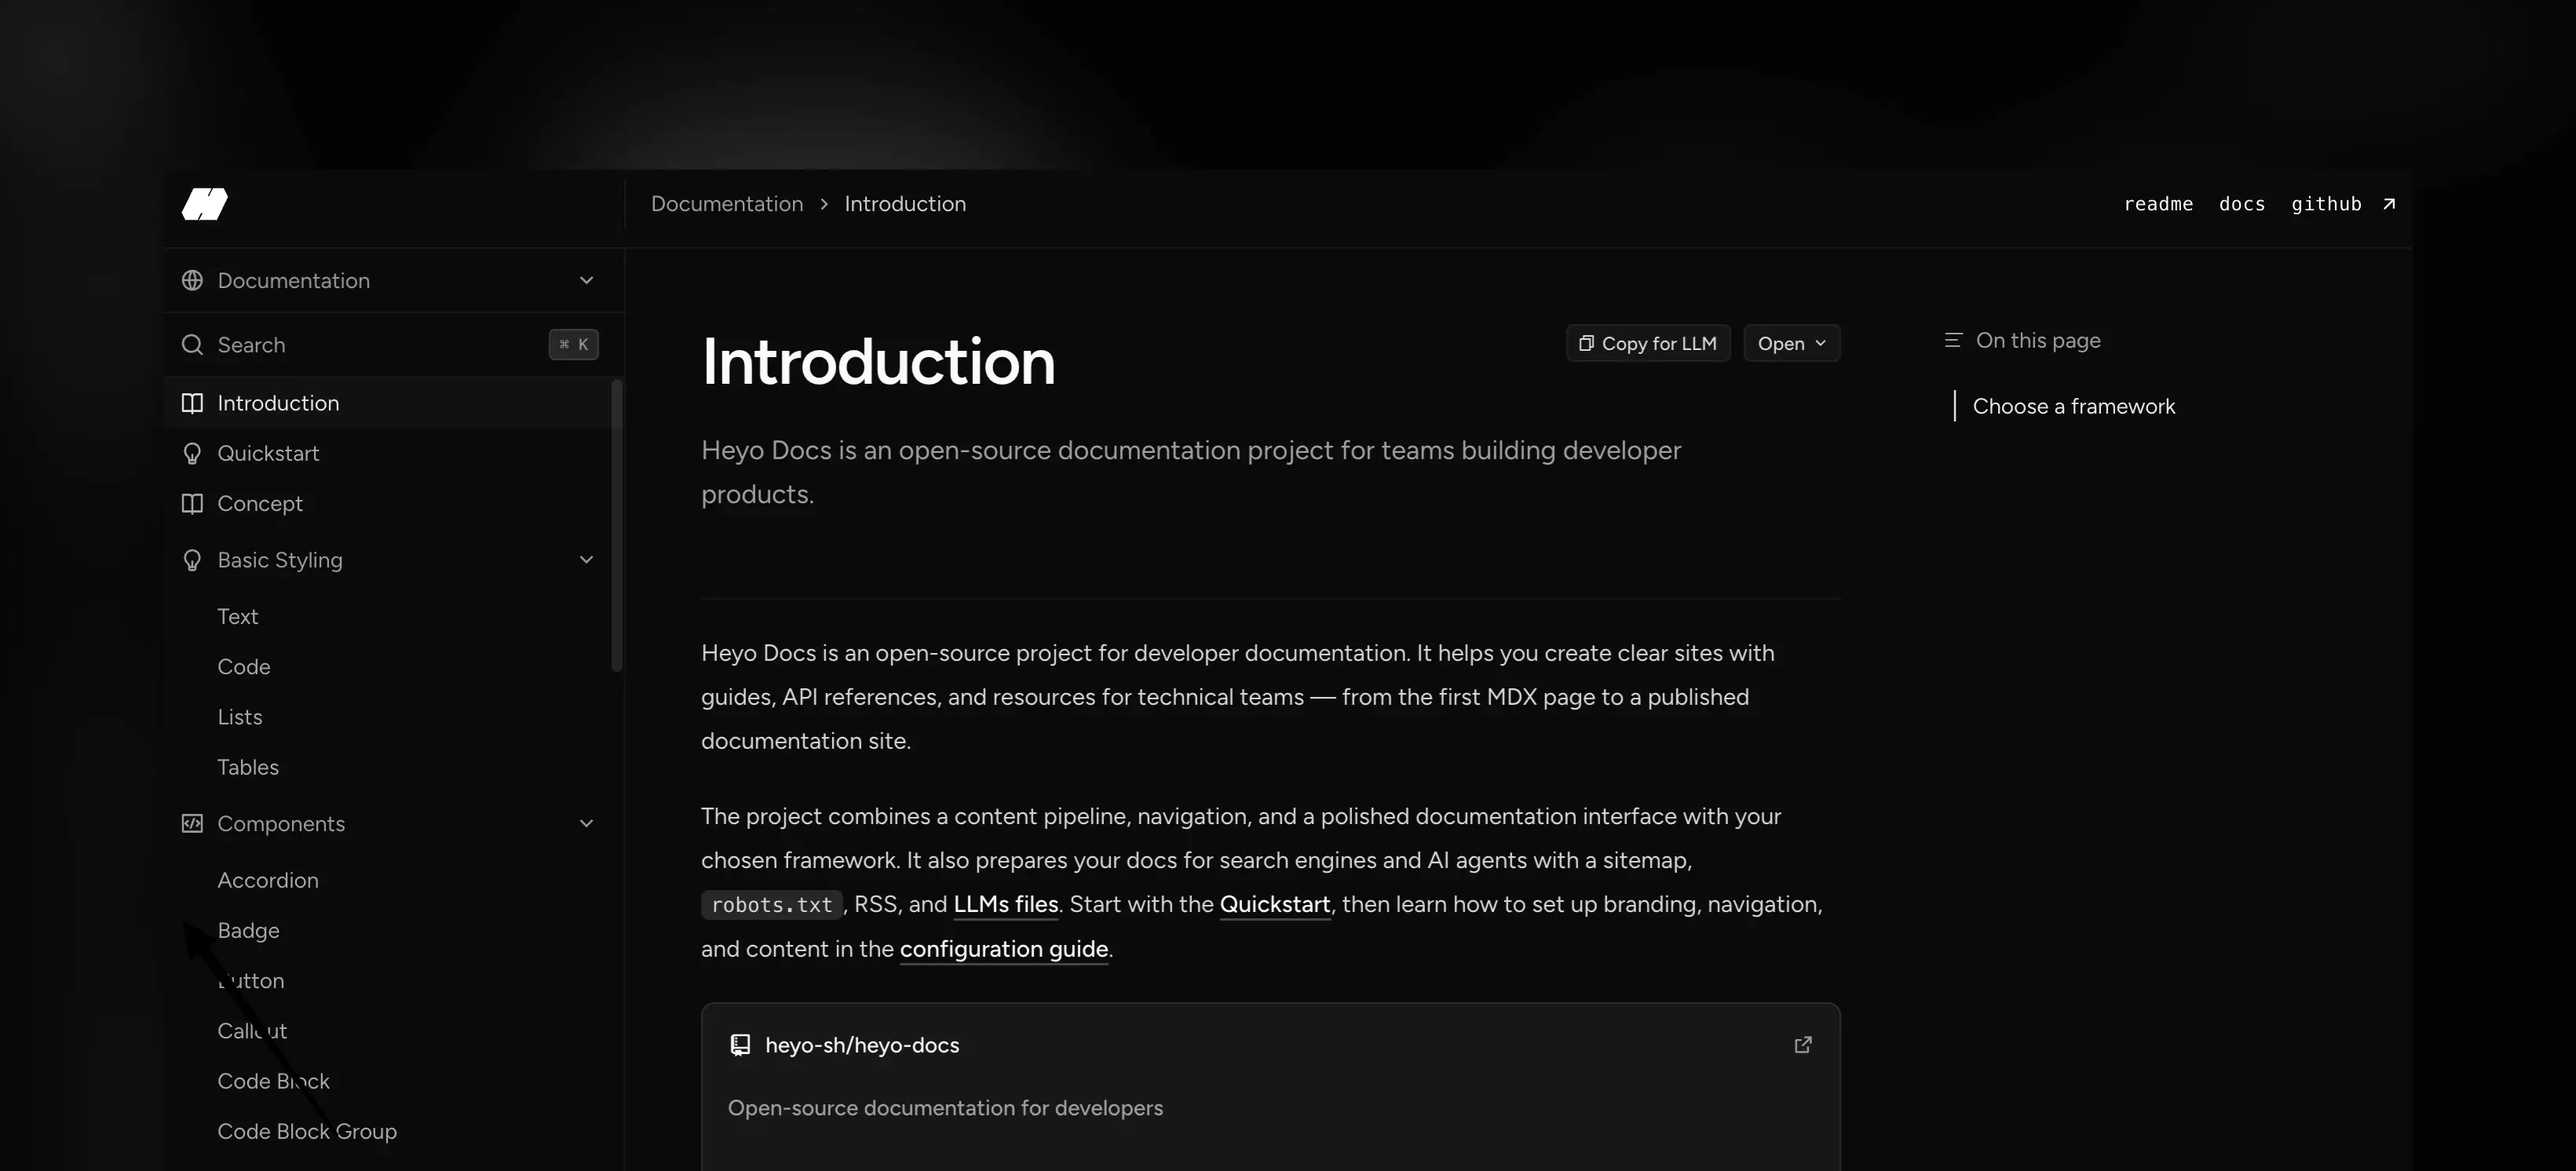
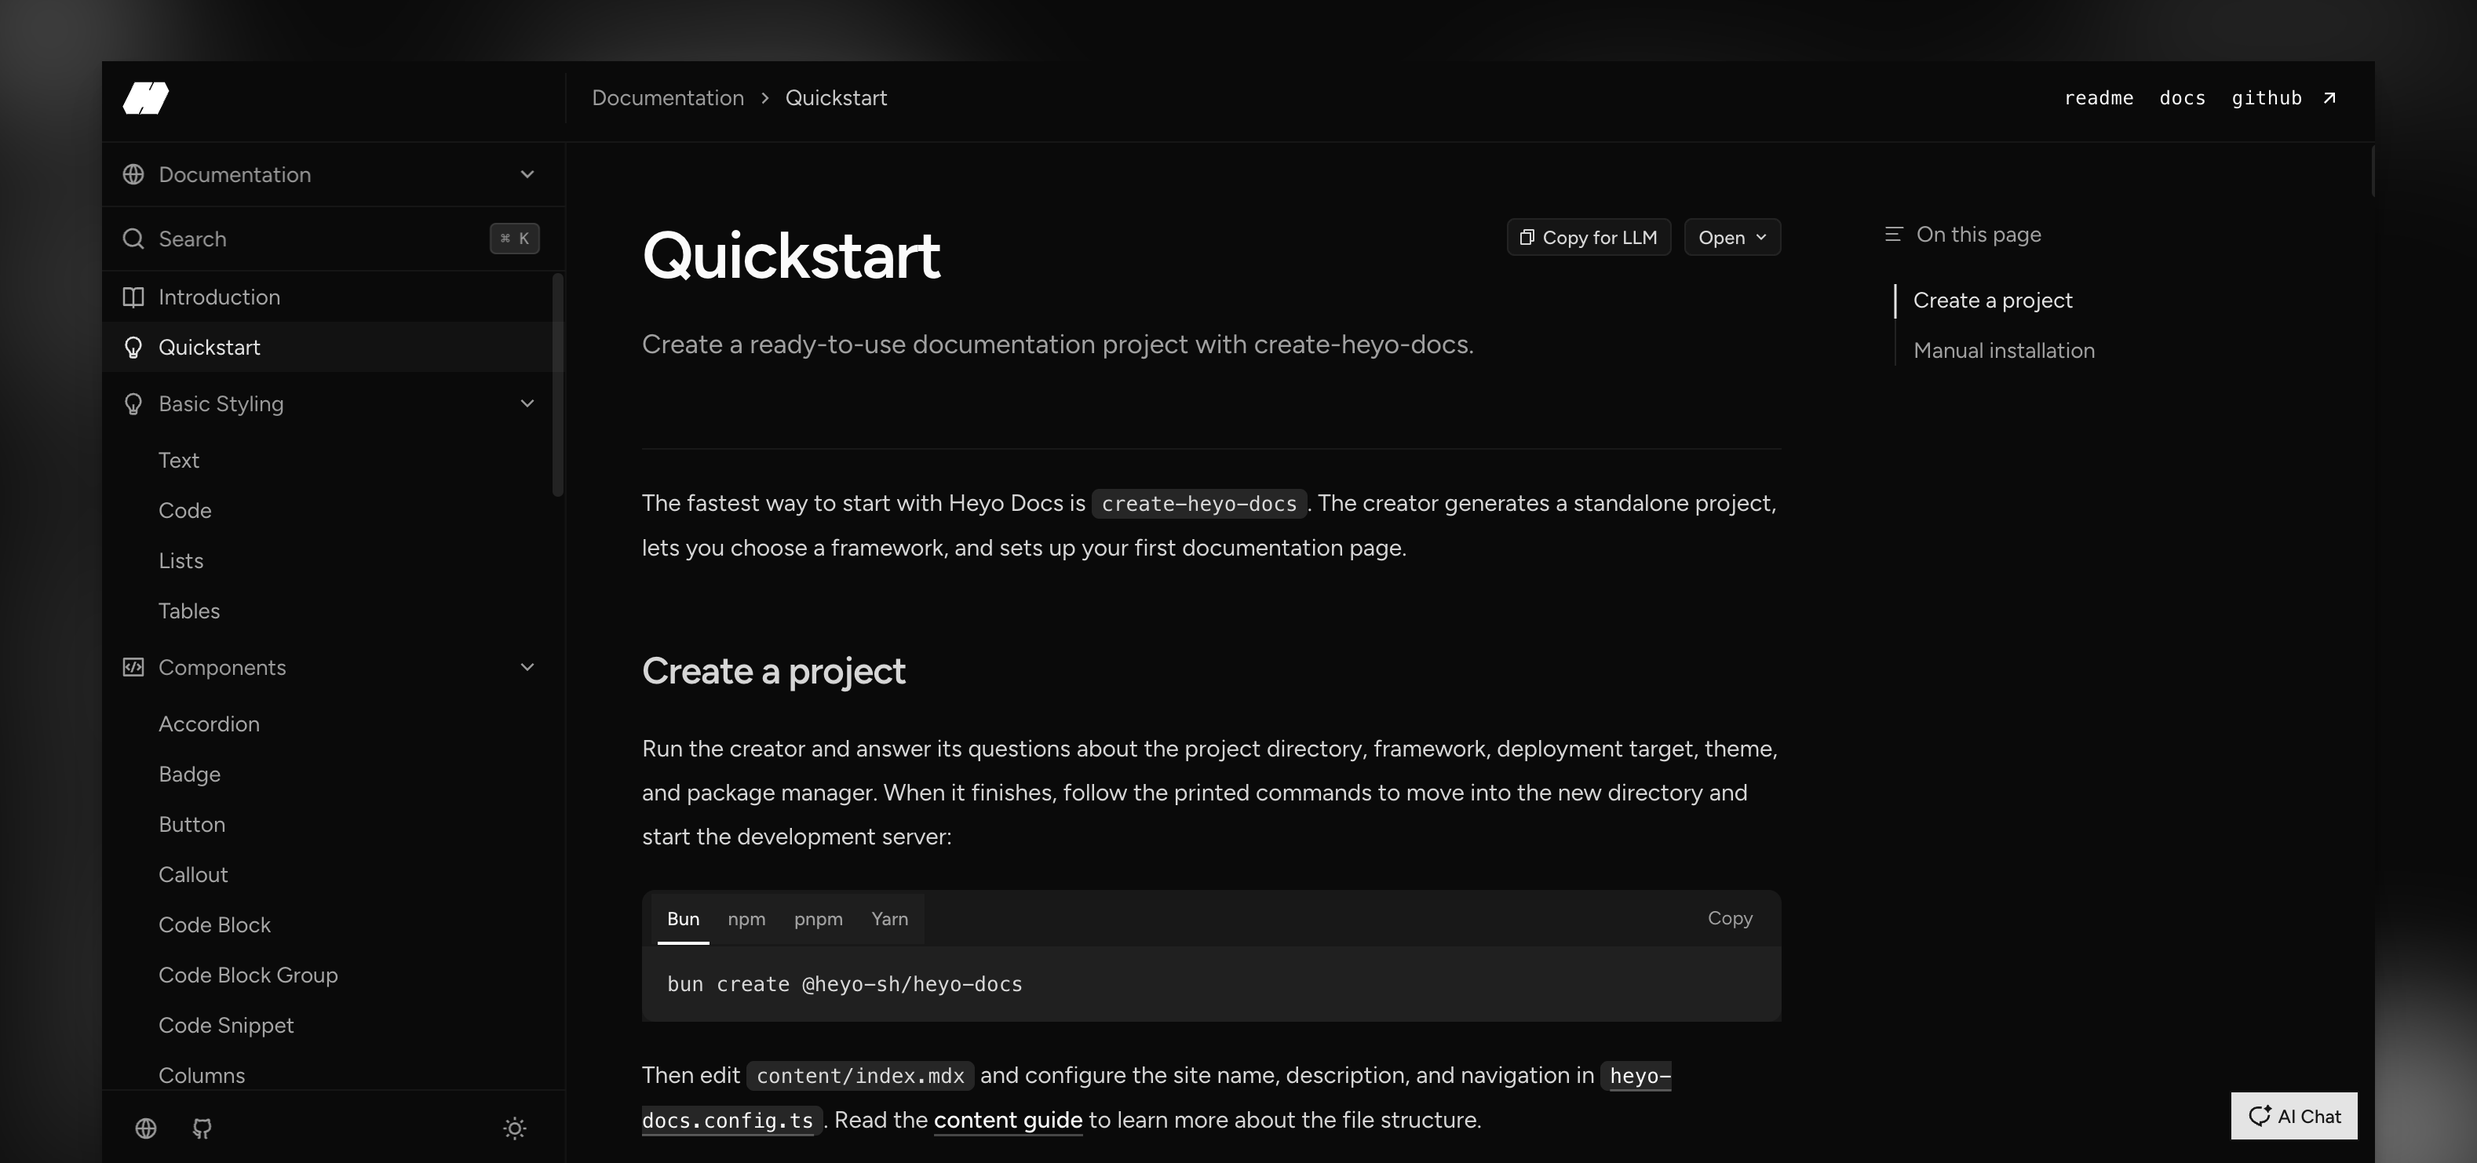
Update README

diff --git a/README.md b/README.md
@@ -9,7 +9,7 @@
     <img src="https://img.shields.io/badge/AI--First-000000?style=flat&amp;colorA=000000&amp;colorB=000000" alt="AI-First"/>
   </p>
 
-  <p>
+  <p style="margin-top: 0.375rem;">
     <a href="https://docs.heyo.sh/introduction/">Documentation</a>
     ·
     <a href="https://docs.heyo.sh/changelog">Changelog (Demo)</a>
